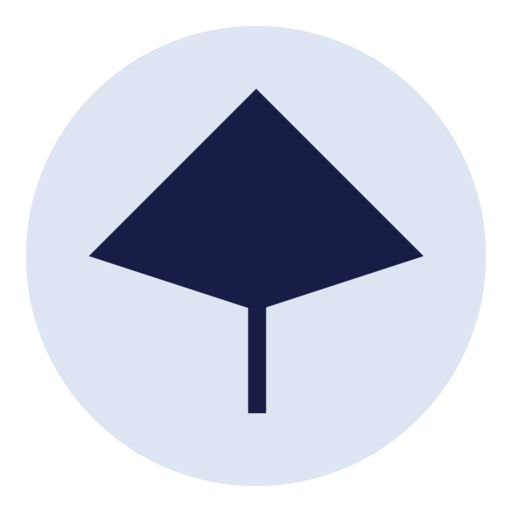
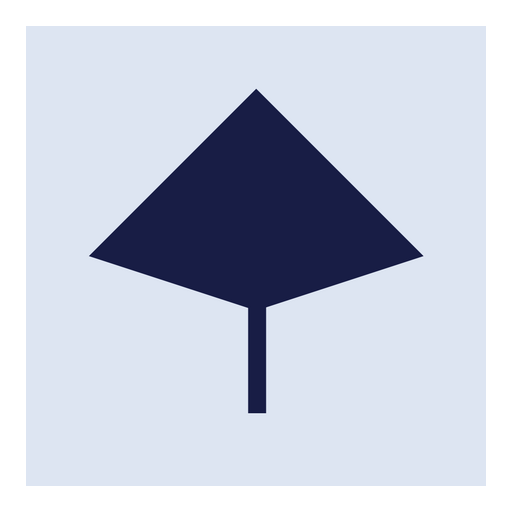
Updates

diff --git a/app/javascript/libs/titleflash.js b/app/javascript/libs/titleflash.js
@@ -34,8 +34,9 @@ window.pageTitleNotification = (function () {
 export function flashOn(text, speed = 2000) {
   pageTitleNotification.on(text, speed)
 
-  const headLinkIcons = document.querySelectorAll('head link[rel="icon"], head link[rel="apple-touch-icon"]')
+  const headLinkIcons = document.querySelectorAll('head link[rel="icon"]')
   headLinkIcons.forEach((icon) => {
+    if (!icon.href.startsWith('/favicon')) return
     let href = icon.href.split('.')
     href[href.length - 2] = href[href.length - 2] + '-alert'
     icon.href = href.join('.')
@@ -45,8 +46,9 @@ export function flashOn(text, speed = 2000) {
 export function flashOff() {
   pageTitleNotification.off()
 
-  const headLinkIcons = document.querySelectorAll('head link[rel="icon"], head link[rel="apple-touch-icon"]')
+  const headLinkIcons = document.querySelectorAll('head link[rel="icon"]')
   headLinkIcons.forEach((icon) => {
+    if (!icon.href.startsWith('/favicon')) return
     let href = icon.href.split('.')
     href[href.length - 2] = href[href.length - 2].replace('-alert', '')
     icon.href = href.join('.')

diff --git a/docs/index.html b/docs/index.html
@@ -95,7 +95,7 @@
     <header class="fixed w-full bg-white/90 backdrop-blur-md z-50 py-4 shadow-sm">
         <div class="container mx-auto px-6 flex justify-between items-center">
             <div class="flex items-center space-x-3">
-                <img src="./icon.png" alt="Matilda Logo" class="h-12">
+                <img src="./icon-circle.png" alt="Matilda Logo" class="h-12">
                 <h1 class="text-2xl font-bold text-primary">Matilda</h1>
             </div>
             <nav class="hidden md:flex space-x-8">

diff --git a/config/initializers/consts.rb b/config/initializers/consts.rb
@@ -1,4 +1,4 @@
-APPLICATION_VERSION = "3.51.1"
+APPLICATION_VERSION = "3.51.2"
 
 APPLICATION_MAIL_FROM = ENV["MATILDA_MAIL_FROM"] || Rails.application.credentials.dig(:matilda, :mail_from) || "Matilda <noreply@mail.com>"
 APPLICATION_HOST = ENV["MATILDA_HOST"] || Rails.application.credentials.dig(:matilda, :host) || "matilda.local"
